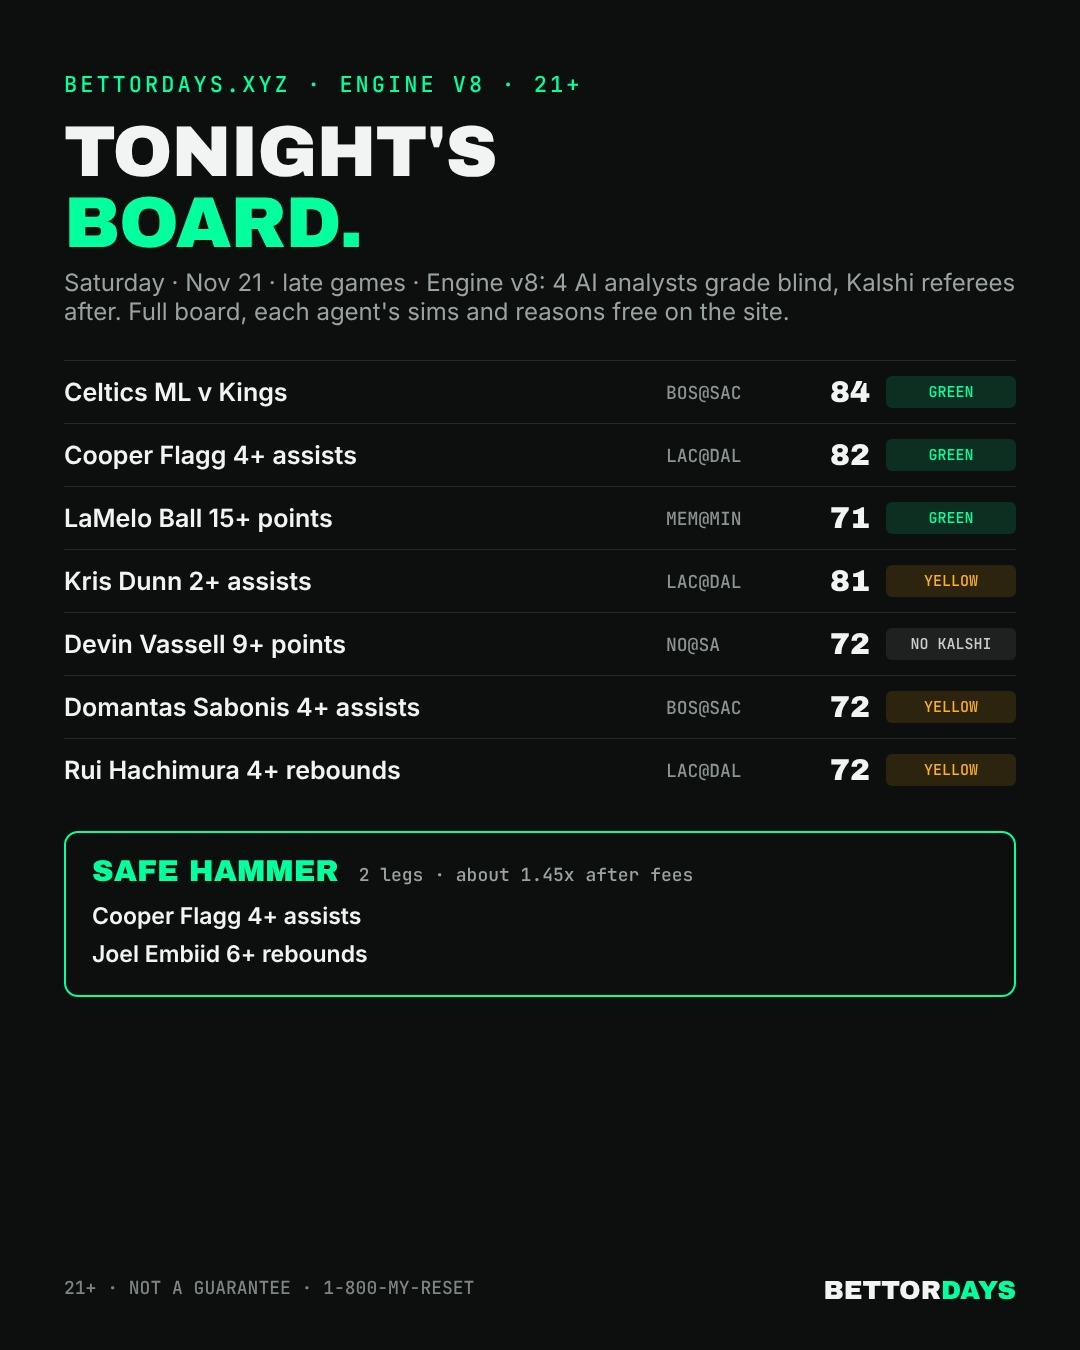
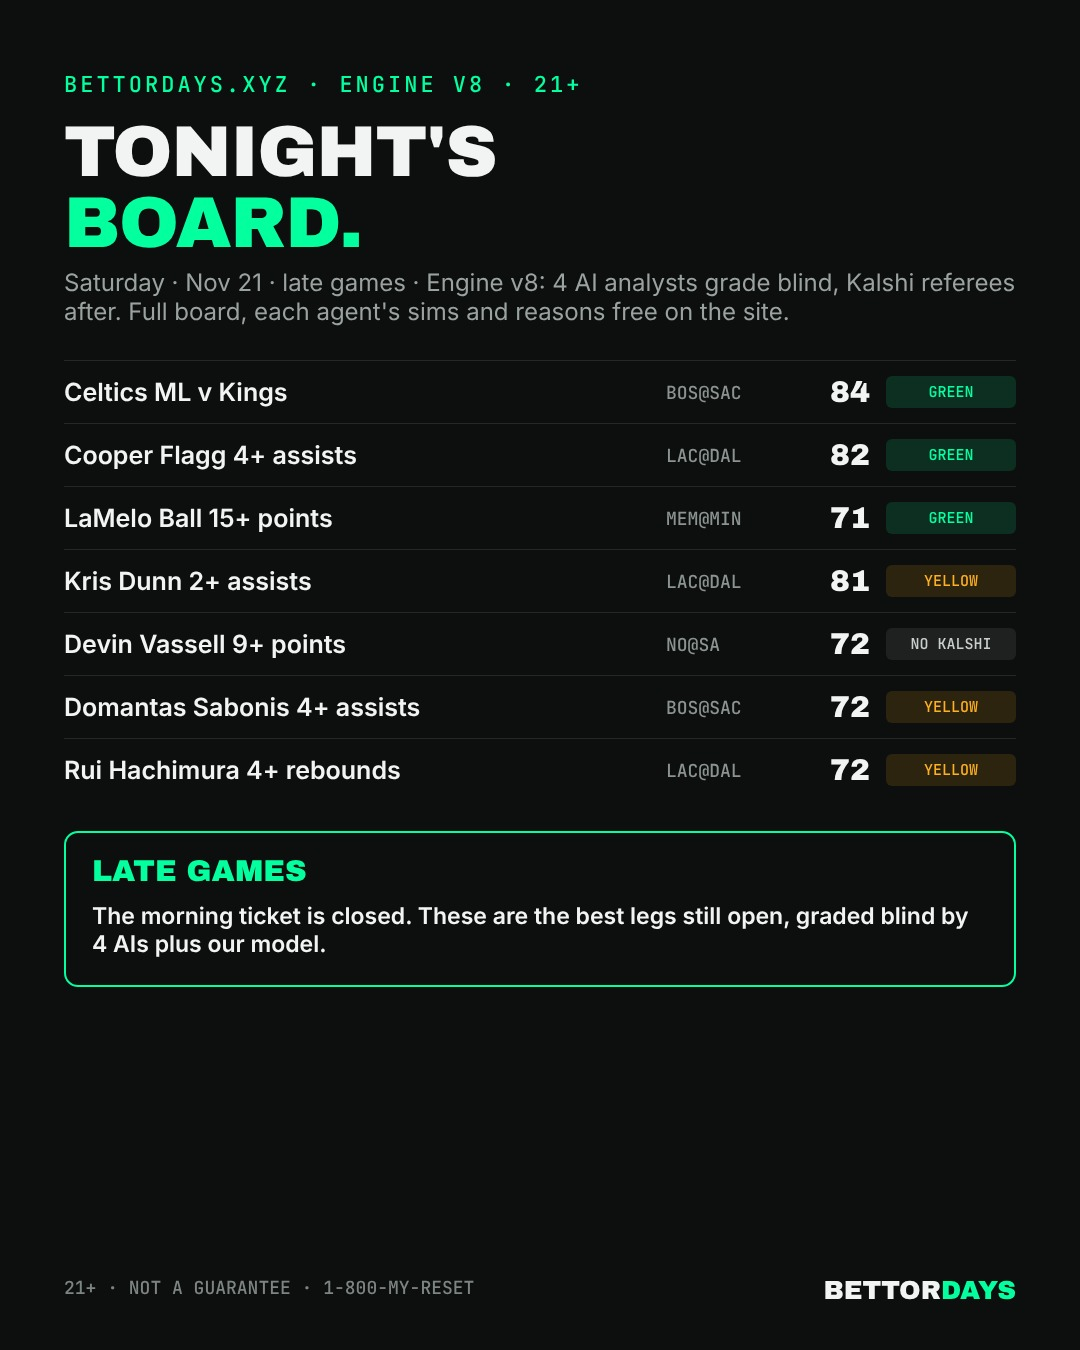
Late-games card: drop the closed morning ticket once a leg has started
Claude-Session: https://claude.ai/code/session_01SXCB9soLNvqZ9TmepvzrJy

Changed region(s): [[0.0611, 0.6222, 0.9472, 0.7467]]

diff --git a/pipeline/v7/card_v7.py b/pipeline/v7/card_v7.py
@@ -13,9 +13,11 @@ top = sorted(board, key=lambda l: (l['tier'] != 'G', -l['pub']))[:8]
 ham = [L[i] for i in M['hammer']['legs']]
 core = next((t for t in M['perfect'] if t['name'] == 'Core' and t['legs']), None)
 tk_name, tk_legs, tk_pay = ((M['hammer'].get('kind') or 'Hammer').upper().replace('HAMMER','HAMMER'), ham, M['hammer'].get('pay_net') or M['hammer']['pay']) if ham else (('CORE TICKET', [L[i] for i in core['legs']], core['pay']) if core else (None, [], None))
+if any(l['g'] in SKIP for l in tk_legs): tk_name, tk_legs = None, []   # ticket already closed (a leg started)
+TKCLOSED = bool(SKIP) and not tk_legs
 e = html.escape
 rows = ''.join(f"<div class=row><span class=p>{e(l['p'])}</span><span class=g>{e(l['g'])}</span><b>{l['pub']}</b><i class='t {l['tier']}'>{'GREEN' if l['tier']=='G' else 'YELLOW' if l['tier']=='Y' else 'NO KALSHI'}</i></div>" for l in top)
-tk = (f"<div class=tk><h3>{tk_name} <small>{len(tk_legs)} legs · about {tk_pay}x after fees</small></h3>" + ''.join(f"<div class=tl>{e(l['p'])}</div>" for l in tk_legs) + "</div>") if tk_legs else "<div class=tk><h3>NO HAMMER TONIGHT</h3><div class=tl>Not enough legs passed every check. Passing is a win.</div></div>"
+tk = (f"<div class=tk><h3>{tk_name} <small>{len(tk_legs)} legs · about {tk_pay}x after fees</small></h3>" + ''.join(f"<div class=tl>{e(l['p'])}</div>" for l in tk_legs) + "</div>") if tk_legs else ("<div class=tk><h3>LATE GAMES</h3><div class=tl>The morning ticket is closed. These are the best legs still open, graded blind by 4 AIs plus our model.</div></div>" if TKCLOSED else "<div class=tk><h3>NO HAMMER TONIGHT</h3><div class=tl>Not enough legs passed every check. Passing is a win.</div></div>")
 page = f"""<!doctype html><html><head><link href="https://fonts.googleapis.com/css2?family=Archivo+Black&family=Inter:wght@400;600;800&family=JetBrains+Mono:wght@500&display=swap" rel=stylesheet><style>
 body{{margin:0;width:1080px;height:1350px;background:#0d0f0e;color:#f2f4f3;font-family:Inter;position:relative;overflow:hidden}}
 .wrap{{padding:70px 64px}}.kick{{font:500 22px 'JetBrains Mono';color:#04ff9f;letter-spacing:3px}}
